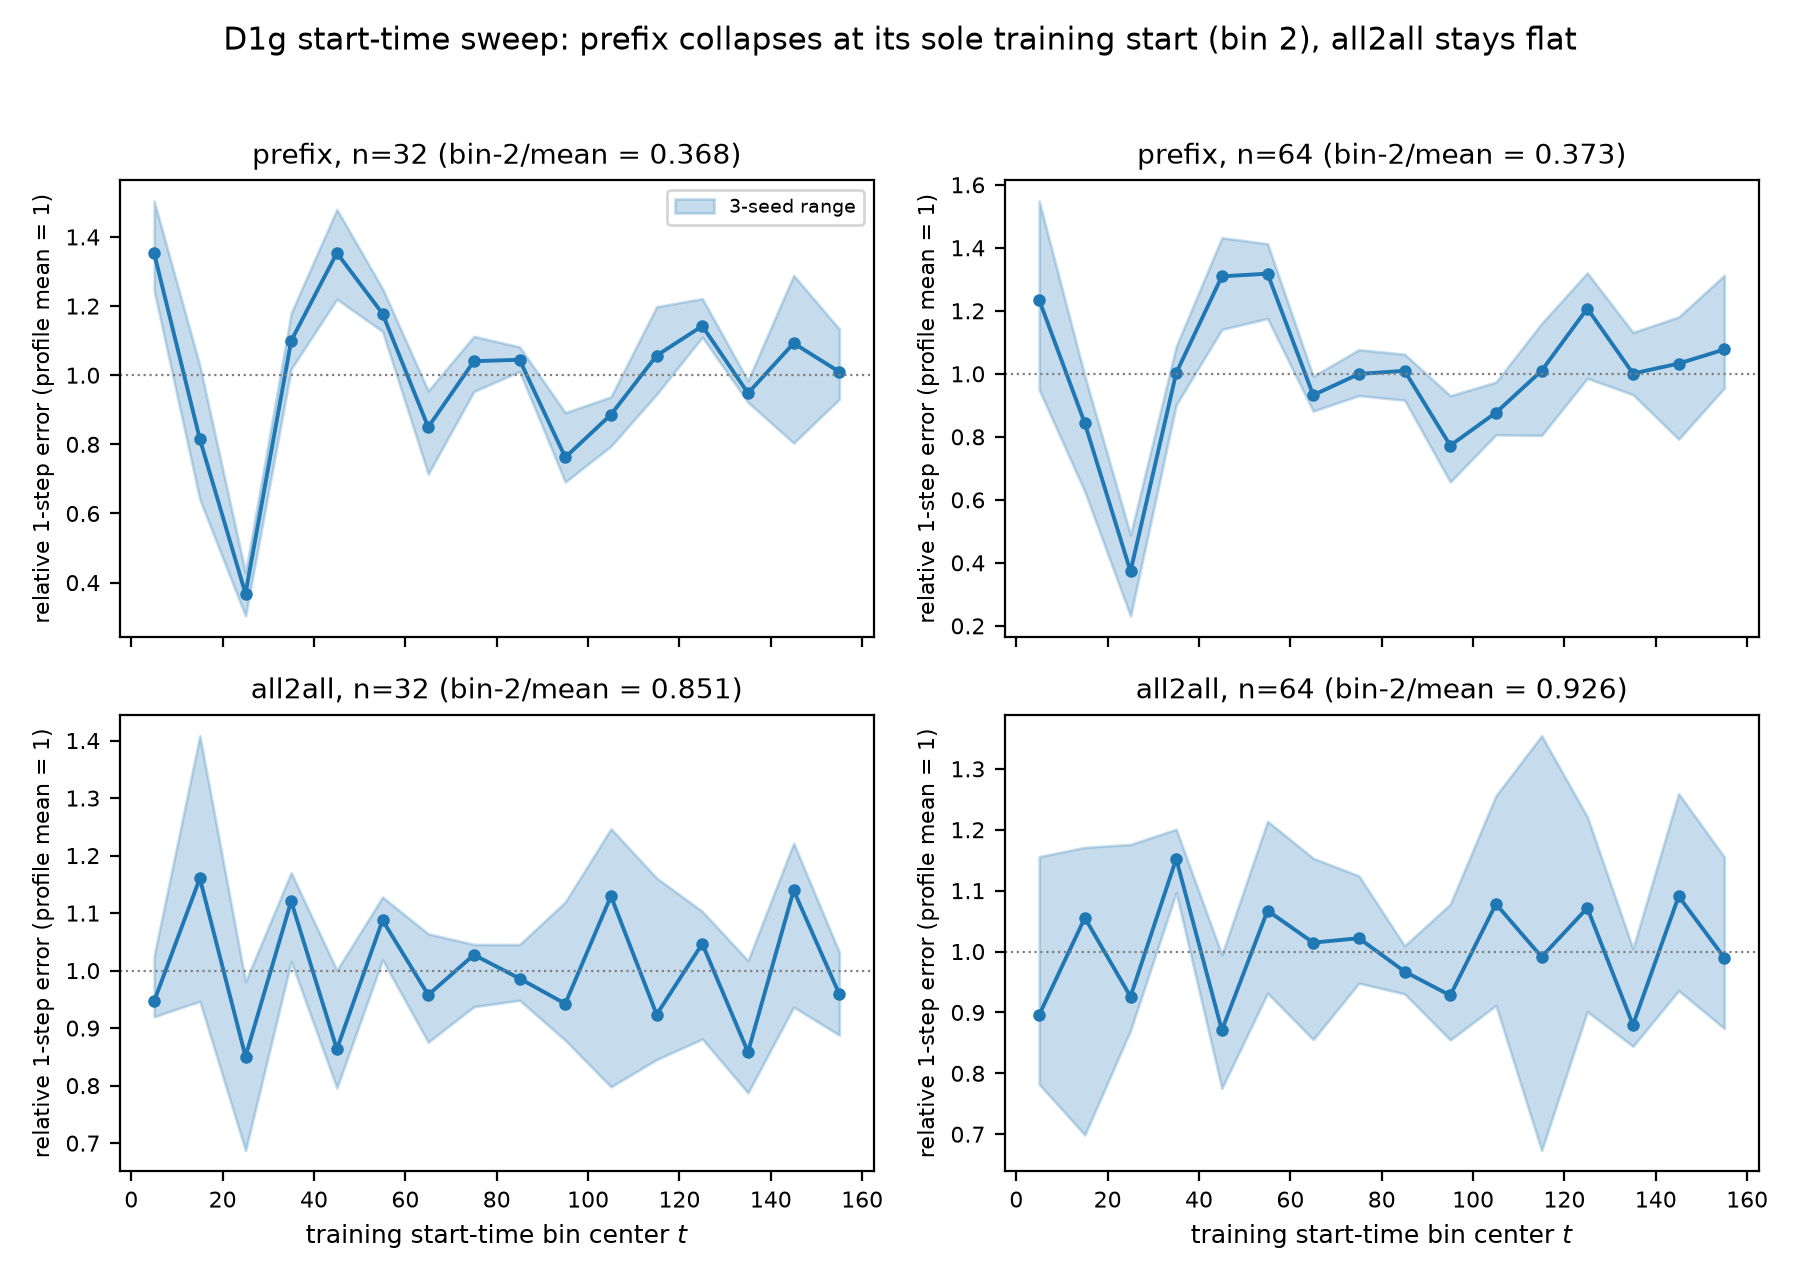
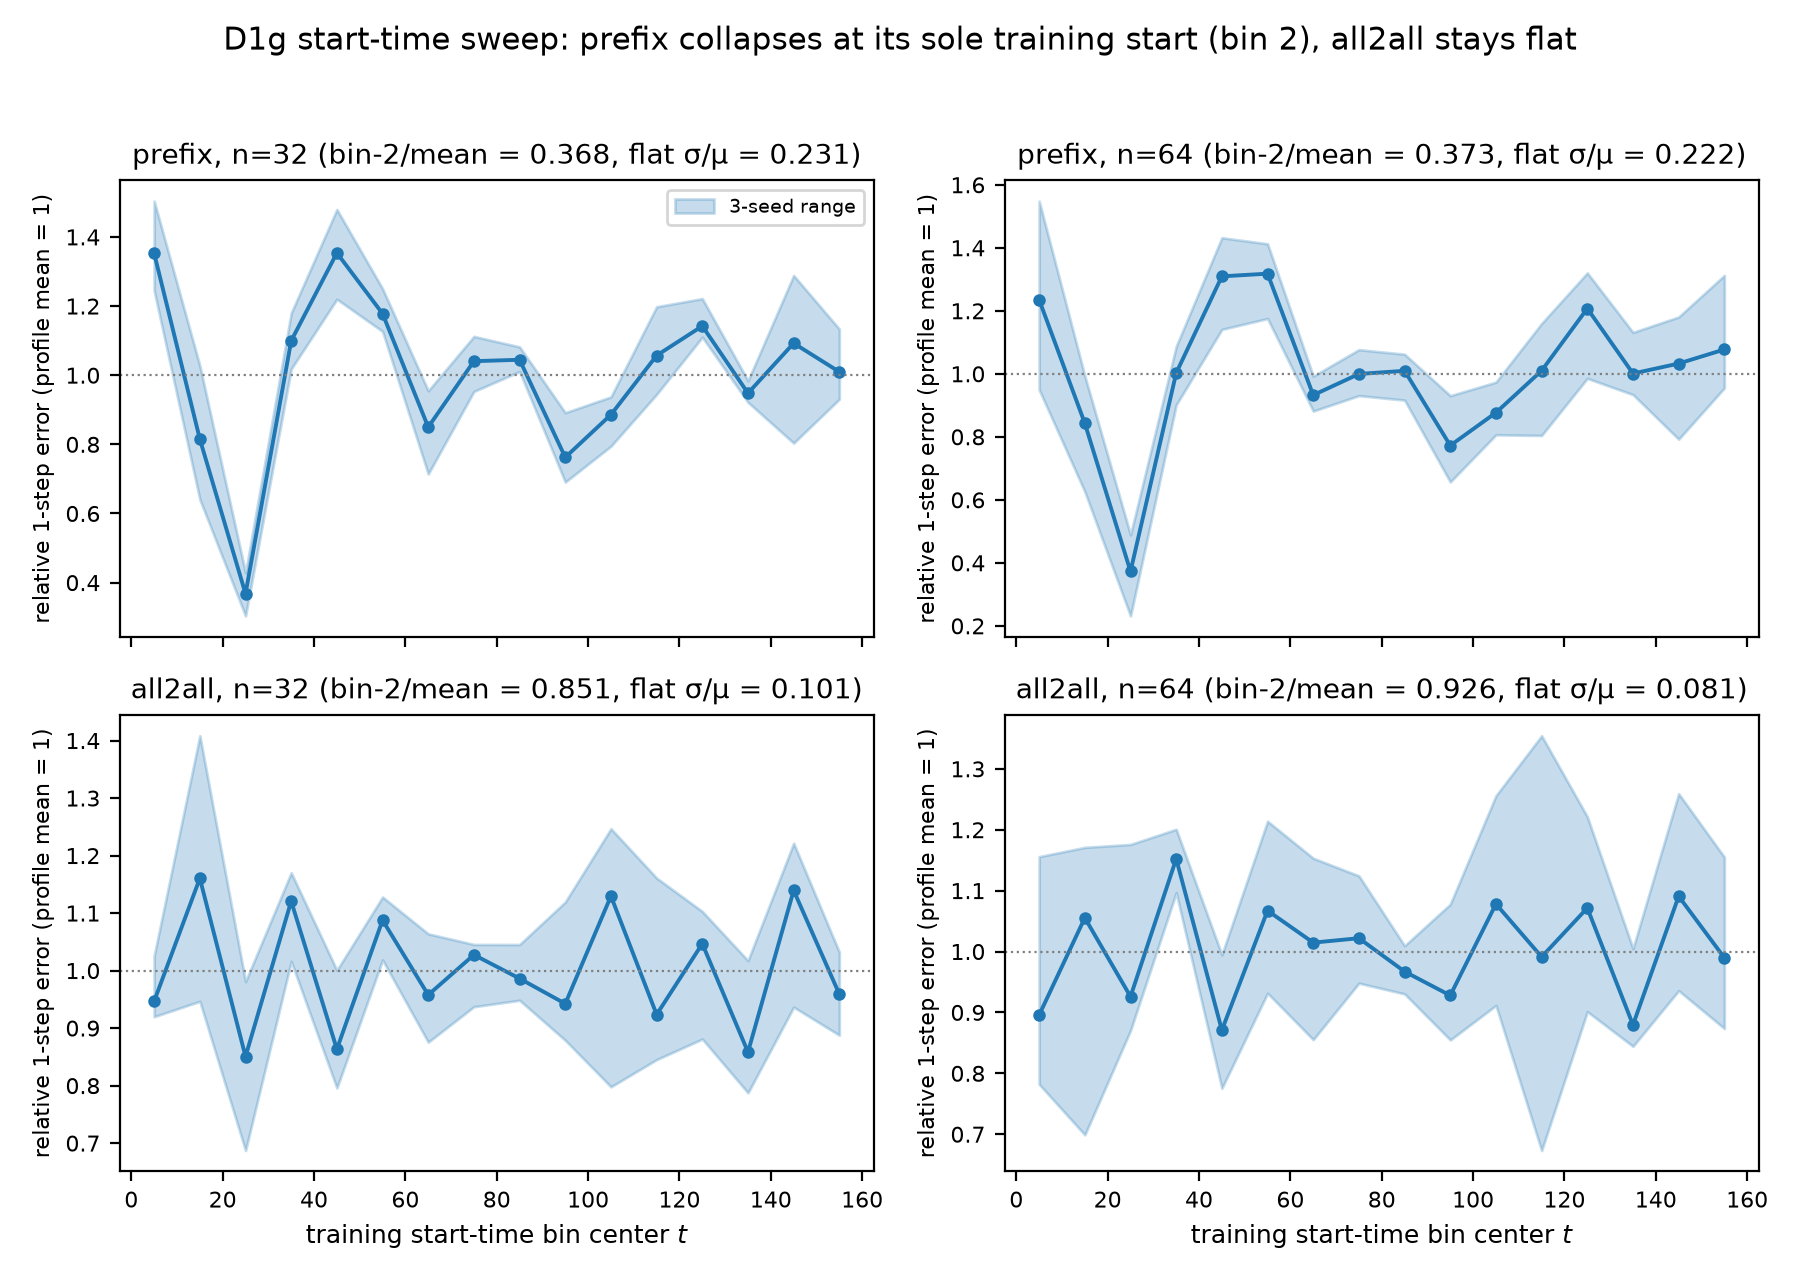
wave10-轮875 重入口拍+N1-FLATNESS-CALIBER执行拍=D1g平坦度口径复原(875段第1拍/队列迭代1/研究拍; 用户/goal重入口=state回RUNNING): 派生评估判可派生=轮872'口径待考'尾巴是真供给[零算力呈现面: 判定行既有读数的复原合规路径, 非新读数非凑数]; 蒸馏门三步齐[distill_inject命中88取top-3, 适用=轮820报告型读数口径随迁条+轮111数字回溯条款]; 执行=口径考古穷举6种口径复原成功: 判定行'平坦度std/mean 0.22-0.23 vs 0.08-0.10'=聚合剖面profile_mean跨16b

diff --git a/scripts/n1_fig_d1g.py b/scripts/n1_fig_d1g.py
@@ -4,8 +4,10 @@
 数据源=benchmarks/physics_out_v02/d1g_sweep/start_time_sweep.json(本地已归档
 产物,meta git_sha=a9be910 device=cpu;轮 18 判定行"论文主图候选")。
 数字纪律(轮 111):图中呈现的一切读数须与本 JSON 逐位一致;核对留痕入轮记录
-(RSI/git)。PRD 轮 18 的 std/mean 口径(0.22-0.23/0.08-0.10)以 seed 离散口径
-未能复现→本图不含该读数(诚实边界,不编造)。
+(RSI/git)。PRD 轮 18 的平坦度 std/mean(0.22-0.23/0.08-0.10)轮 872 曾以 seed
+离散口径复算未吻合判"待考";轮 875 口径考古复原=聚合剖面(profile_mean)
+跨 16 bin 的总体标准差/均值(pstdev),四臂两位小数逐位命中(0.231/0.222/
+0.101/0.081)→各板标题注记 flat σ/μ(读数=判定行既有读数的口径复原,非新读数)。
 
 用法:.venv/bin/python scripts/n1_fig_d1g.py [--json PATH] [--out PATH]
 输出:docs/n1-figs/fig1_d1g_profile.png(2×2 四板归一化剖面)
@@ -53,10 +55,14 @@ def build(d):
         ax.fill_between(centers, lo, hi, alpha=0.25, color="C0", label="3-seed range")
         ax.plot(centers, rel, "o-", ms=3.5, lw=1.4, color="C0")
         dip = pm[2] / mu
+        flat = statistics.pstdev(pm) / mu  # 轮 875 口径复原:PRD 判定行 flatness=聚合剖面跨 bin 总体 σ/μ
         label = "prefix" if arm.startswith("prefix") else "all2all"
         n = arm.split("_")[1].lstrip("n")
-        ax.set_title(f"{label}, n={n} (bin-2/mean = {dip:.3f})", fontsize=10)
-        checks.append(f"{arm}: bin-2/mean={dip:.3f} min_bin={min(range(len(pm)), key=lambda i: pm[i])}")
+        ax.set_title(f"{label}, n={n} (bin-2/mean = {dip:.3f}, flat σ/μ = {flat:.3f})", fontsize=10)
+        checks.append(
+            f"{arm}: bin-2/mean={dip:.3f} flat={flat:.3f} "
+            f"min_bin={min(range(len(pm)), key=lambda i: pm[i])}"
+        )
         ax.axhline(1.0, ls=":", lw=0.8, color="gray")
         ax.set_ylabel("relative 1-step error (profile mean = 1)", fontsize=8)
         ax.tick_params(labelsize=8)

diff --git a/tests/test_n1_fig_d1g.py b/tests/test_n1_fig_d1g.py
@@ -60,3 +60,18 @@ def test_build_uniform_arm_flat(tmp_path):
     _, checks = mod.build(d)
     for c in checks:
         assert "min_bin=" in c
+
+
+def test_build_flatness_caliber(tmp_path):
+    """轮 875 口径复原锚:flat=聚合剖面跨 bin 总体 σ/μ(判定行口径)。"""
+    d = mod.load(_fake_json(tmp_path / "d.json"))
+    fig, checks = mod.build(d)
+    pre = [c for c in checks if c.startswith("prefix_n32")]
+    # [1]*15+[0.4]: mean=0.9625, pstdev=0.14524 ⇒ flat=0.151
+    assert pre and "flat=0.151" in pre[0]
+    a2a = [c for c in checks if c.startswith("all2all_n32")]
+    # 全 1 剖面 ⇒ flat=0.000
+    assert a2a and "flat=0.000" in a2a[0]
+    import matplotlib
+
+    matplotlib.pyplot.close(fig)

diff --git a/docs/loop/GOALS.md b/docs/loop/GOALS.md
@@ -6,7 +6,7 @@
 > PRD §19,不在本文件复制研究内容。更新本文件 = 推进程序计数器。
 
 ```yaml
-state: BLOCKED-HUMAN  # 轮 874 置态(机械等待态, 判据双留痕=goal_check exit6 verdict+派生评估判否[①真欠账清零 DEBT-LEDGER D_count=0 ②蒸馏义务已履行=本段 871/872/873 三次 distill_inject 对表+两次成功派生 ③闭族闭轴留痕 RECIPE 六探针全闭+LOO 闭轴]; 五级全空=ladder 复扫轮 874 留痕 L1/L2/L3=0; L5 本段已按本机约束跑过=轮 871-873 两次成功派生+图 2 拒绝留痕含翻转条件[轮 873], 愿望登记语义=T2T3 队列行在案; 写作吸收缺口清点=0[呈现面收敛: 复现审计 869+终稿卫生 871+主图 872+硬化 873]; 段尾夜账已入账=RSI-INDEX 夜 40)。上置态史=轮 870/859。重入口=用户一句话/新欠账/停车场与算力重启/任意新会话入口⇒state 回 RUNNING 续跑, 达成检测恢复每轮实跑。剩余用户门控(零催促): T2/T3 算力(rc=3)/PR 合并(60 open)/投稿终稿+venue 人决+代码可用性声明裁(G1)/997 出题/AMM-026 待裁; cron 用户否决维持 PROPOSED。push: 本拍提交后即推 fork(债口径=push 成功+引用零差即核清[轮 833 条款]; 网络硬限按轮 287+435 后台退避重试+追记协议)
+state: RUNNING  # 轮 875 重入口恢复(用户 /goal 重入口令=一句话最高优先级; 上置态=轮 874[判据双留痕=exit6 verdict+派生评估判否], 上上置态史=轮 870/859; 重入口⇒RUNNING 续跑, 达成检测恢复每轮实跑)。轮 875 首拍=N1-FLATNESS-CALIBER 执行拍(轮 872 平坦度口径待考→口径考古复原=聚合剖面跨 bin 总体 σ/μ 四臂逐位命中判定行 0.231/0.222/0.101/0.081, 读数回填主图+草稿 §6)。剩余用户门控(零催促): T2/T3 算力(rc=3)/PR 合并(60 open)/投稿终稿+venue 人决+代码可用性声明裁(G1)/997 出题/AMM-026 待裁; cron 用户否决维持 PROPOSED。push: 本拍提交后即推 fork(债口径=push 成功+引用零差即核清[轮 833 条款]; 网络硬限按轮 287+435 后台退避重试+追记协议)
 mode: ON                  # AMM-003 迭代总开关(./scripts/iteration start|stop)
 iteration_window: 全天候(00:00-24:00 永动模式,2026-09-19 用户改定;总开关 mode=ON/OFF)
 current_goal: >-
@@ -262,9 +262,10 @@ loop_closer+PLAYBOOK+1 坑(移植落地三件套); M2 侧缺陷修复 prompt 交
   达成新形态[test_gauge 真仓 goal_check 实跑驱动误弹出+teardown 删锁,
   当拍去兜底恢复重验正式弹出]+真仓测试供给消费守卫与锁恢复; 卫生检查
   器+7 用例 240→247; PLAYBOOK 轮 871 双条)。
-  轮 872 消化轮+N1-MAIN-FIGURE 执行拍=D1g 主图落地(871 段第 2 拍/队列迭代 2/研究拍; 871 残余检查干净后派生评估判可派生=PRD 轮 18'D1g 四剖面板=论文主图候选'素材在库而草稿零图, 已归档读数呈现面非新读数闭族不封): 蒸馏门三步齐[distill_inject 零命中退化池 2 条如实 rc=1(AMM-015 机制正常), 对表改用轮 111 数字回溯条款直接经验]; 执行=scripts/n1_fig_d1g.py 可复现出图(2×2 四板归一化剖面+3-seed range 带, 缺臂断言禁硬造)+数字核对留痕(四臂 bin-2/mean=0.368/0.373/0.851/0.926 逐位, PRD'0.37x'吻合; **诚实留痕=PRD 平坦度 std/mean 口径复算不吻合[0.278/0.182/0.569/0.369 vs 0.22-0.23/0.08-0.10], 口径待考, 图未含该读数**[PLAYBOOK 轮 872 条=轮 111 图形面延伸])+轮 111 条款链=asset-index §4 D1g 条目(数字先入索引)→草稿 §6 新段 Training-distribution coverage+Fig.1 引用; 自抓 1=脚本无可执行位 check_cmd 红当拍 chmod; 卫生复检 CLEAN; 测试 247 全绿; 台账=零算力写作拍无 PR; 判单 872; 段三数(871 段累计)=队列迭代 2/研究拍 2/簿记拍 0
+  **段史摘要(轮 872;逐轮详文唯一源=git log 909779a)**:N1-MAIN-FIGURE 执行拍=D1g 主图落地(四板剖面可复现出图+bin-2/mean 四臂逐位核对+平坦度口径待考诚实留痕→轮 875 复原)。
   轮 873 派生评估复判+L3 硬化拍=HARDEN-N1-FIG-TEST(871 段第 3 拍/队列迭代 3/研究拍): exit6 复判=图 2 想法判未在册拒绝留痕[无 PRD/asset-index/清单背书, 与图 1'主图候选'明示不同; 呈现会引入需新叙述的劣势信息(spring 系 liquid 0.205>static 0.081, verdict remeasured=False); 连续同形态流水化风险; 翻转条件=venue 人决后审稿需求面板]⇒写作吸收缺口清点=0; ladder 复扫 L3=1 盲区自扫出[n1_fig_d1g.py 轮 872 新增缺测试]=AMM-049 L3 可行动入队续跑不出段; 执行=tests/test_n1_fig_d1g.py 3 用例(tmp_path 假 JSON 仓外=轮 405 条款: 缺臂断言/bin-2/mean 核对 0.416 与 1.000 双锚/min_bin), L3 复扫归 0, 测试 247→250; PLAYBOOK+1(计数锚 check_cmd $() 内 grep -c 须||true=轮 287 家族变体); 台账=零算力硬化拍无 PR; 判单 873; 段三数(871 段累计)=队列迭代 3/研究拍 3/簿记拍 0
   轮 874 段尾簿记拍=夜账入账+置 BLOCKED-HUMAN(871 段第 4 拍/簿记拍合法触发=本段行将静止; exit6 复判+五级全空[ladder 轮 874 留痕 L1/L2/L3=0]+派生评估判否三条件齐[真欠账清零 D_count 0/蒸馏义务=本段三次 distill_inject 对表+两次成功派生/闭族闭轴留痕]⇒写作吸收缺口清点 0=呈现面收敛[复现审计 869+终稿卫生 871+主图 872+硬化 873], 剩余全用户门控): 夜账=rsi_night 871-873 入账 RSI-INDEX 夜 40[K=0/E=0/T 0/0 未触发/工具+2 n1_fig_d1g+draft_hygiene_check(夜 39 未计如实补计注记)/C 分母 3]+reflection_mine 870-873 候选 8 条人裁注记(pit-recurrence 对=轮号链既定演进非复发); 置态=GOALS state→BLOCKED-HUMAN(判据双留痕=exit6 verdict+派生评估判否, 段尾夜账先入账, 重入口⇒RUNNING 续跑); 段三数(871-873 段)=队列迭代 3/研究拍 3/簿记拍 0+本拍簿记 1; 台账=零算力簿记拍无 PR; 判单 874; 四门经 closer
+  轮 875 重入口拍+N1-FLATNESS-CALIBER 执行拍=D1g 平坦度口径复原(875 段第 1 拍/队列迭代 1/研究拍; 用户 /goal 重入口=state 回 RUNNING, 达成检测恢复每轮实跑): 派生评估判可派生=轮 872'口径待考'尾巴是真供给[零算力呈现面: 判定行既有读数的复原合规路径, 非新读数非凑数]; 蒸馏门三步齐[distill_inject 命中 88 取 top-3, 适用=轮 820 报告型读数口径随迁条+轮 111 数字回溯条款]; 执行=口径考古穷举 6 种口径复原成功: 判定行'平坦度 std/mean 0.22-0.23 vs 0.08-0.10'=聚合剖面 profile_mean 跨 16 bin 总体标准差/均值(pstdev), 四臂逐位命中 0.231/0.222/0.101/0.081→两位小数 0.23/0.22/0.10/0.08; 轮 872 复算口径实为 seed 离散度(每 bin 跨 seed σ/μ 跨 bin 平均=0.278/0.182/0.569/0.369)非剖面平坦度, 判定行读数无误[历史行不改写, 复原=新证据追加行]; 回填=n1_fig_d1g.py 各板标题 flat σ/μ 注记(复跑四臂 bin-2/mean 0.368/0.373/0.851/0.926 与轮 872 留痕逐位同)+草稿 §6 平坦度句(口径随读数同迁=轮 820 条)+asset-index §4 D1g 轮 875 追加行(轮 872 行保留); 测试 250→251(+1 口径锚 flat=0.151/0.000 假 JSON); PLAYBOOK+1(复算不吻合先分数字错/口径对象错两假设, 判待考前穷举口径族, pstdev/stdev 以四臂全落区间为准); 台账=零算力写作拍无 PR; 判单 875; 段三数(875 段)=队列迭代 1/研究拍 1/簿记拍 0
 
 ## 心跳语义注记(AMM-037/038 自 prompt 下沉,机械定义)
 

diff --git a/docs/loop/PLAYBOOK.md b/docs/loop/PLAYBOOK.md
@@ -4906,3 +4906,18 @@
   耦合)。HARDEN-N1-FIG-TEST 的 check_cmd 即此形态,达成态实测 rc=0。
   (出处:轮 873;适用条件:一切 grep -c 计数锚 check_cmd;验证状态:已
   验证=本拍达成态 rc=0 实测。)
+
+- **复算不吻合先分"数字错/口径对象错"两假设,判待考前穷举口径族(2026-10-03
+  轮 875,本轮实证)**:轮 872 对 PRD 判定行平坦度复算不吻合即判"口径待考"
+  ——实际只试了一种口径(seed 离散)就下结论。轮 875 口径考古穷举 6 种
+  (聚合剖面跨 bin σ/μ[pstdev/stdev]/每 bin 跨 seed σ/μ 跨 bin 平均/逐 seed
+  剖面 σ/μ 平均/pooled/归一化)即复原:判定行口径=聚合剖面(profile_mean)
+  跨 16 bin 的总体标准差/均值,四臂逐位命中(0.231/0.222/0.101/0.081→
+  0.23/0.22/0.10/0.08);轮 872 所试实为 seed 离散度,统计对象选错。
+  → ①"复算不吻合"≠"判定行数字错",先列统计对象候选族(聚合量 vs 离散
+  量 vs pooled)穷举后再判待考;②pstdev/stdev 二选一以四臂全落在判定行
+  区间为准(样本 stdev 版 all2all_n32=0.105→0.11 出界,总体 pstdev 全中);
+  ③复原成功的读数按轮 872 条款合规入图入稿(判定行既有读数,非凑数),
+  复原过程+已试口径清单入 asset-index/轮记录双留痕。
+  (出处:轮 875;适用条件:一切判定行读数口径复算/图形面回填;验证状态:
+  已验证=主图复跑四臂 flat 逐位+草稿 §6 回填+251 测试绿。)

diff --git a/docs/n1-paper-draft.md b/docs/n1-paper-draft.md
@@ -467,10 +467,13 @@ single start time (t = 23) places its 1-step error minimum exactly at
 that training bin (bin-2/mean = 0.368 at n=32, 0.373 at n=64; 3-seed
 aggregate, [B]), while the all2all head — trained over uniformly sampled
 starts — stays flat (0.851/0.926; its n=64 minimum falls at bin 4, not a
-systematic dip). The force field is accurate where the training loss
-samples it: start-time coverage density, not architecture, produces the
-profile shape (Fig. 1, four panels; reproducible from the archived sweep
-artifact via scripts/n1_fig_d1g.py).
+systematic dip). Profile flatness — the population σ/μ of the 3-seed
+aggregate profile across the 16 start-time bins — quantifies the same
+contrast: 0.22–0.23 for prefix vs 0.08–0.10 for all2all [B]. The force
+field is accurate where the training loss samples it: start-time
+coverage density, not architecture, produces the profile shape (Fig. 1,
+four panels; reproducible from the archived sweep artifact via
+scripts/n1_fig_d1g.py).
 
 **Inference gap (M1).** Why does the amortized context underuse the
 available information? Chain, in evidence order: (i) the observation

diff --git a/docs/n1-asset-index.md b/docs/n1-asset-index.md
@@ -71,6 +71,13 @@ docs/n1-figs/fig1_d1g_profile.png(scripts/n1_fig_d1g.py 自归档产物
 可复现,轮 872 核对留痕=四臂 bin-2/mean 逐位);诚实留痕:PRD 轮 18
 的剖面平坦度 std/mean 口径(0.22-0.23 vs 0.08-0.10)以 3-seed 离散
 复算(0.278/0.182/0.569/0.369)未吻合,口径待考,图未含该读数。
+**轮 875 口径复原(新证据追加行,轮 872 行保留)**:口径=聚合剖面
+(profile_mean)跨 16 bin 的总体标准差/均值(pstdev),四臂逐位命中
+0.231/0.222/0.101/0.081(两位小数即判定行 0.22-0.23/0.08-0.10);轮 872
+复算口径实为 seed 离散度(每 bin 跨 seed σ/μ 的跨 bin 平均)非剖面
+平坦度,判定行读数无误;回填=主图各板标题 flat σ/μ 注记(复跑
+n1_fig_d1g.py,bin-2/mean 四值与轮 872 留痕逐位同)+草稿 §6 平坦度句;
+测试 250→251(+1 口径锚 flat=0.151/0.000 假 JSON)。
 
 ## 5. Methods 三件套(Methods/实现辩护)
 
